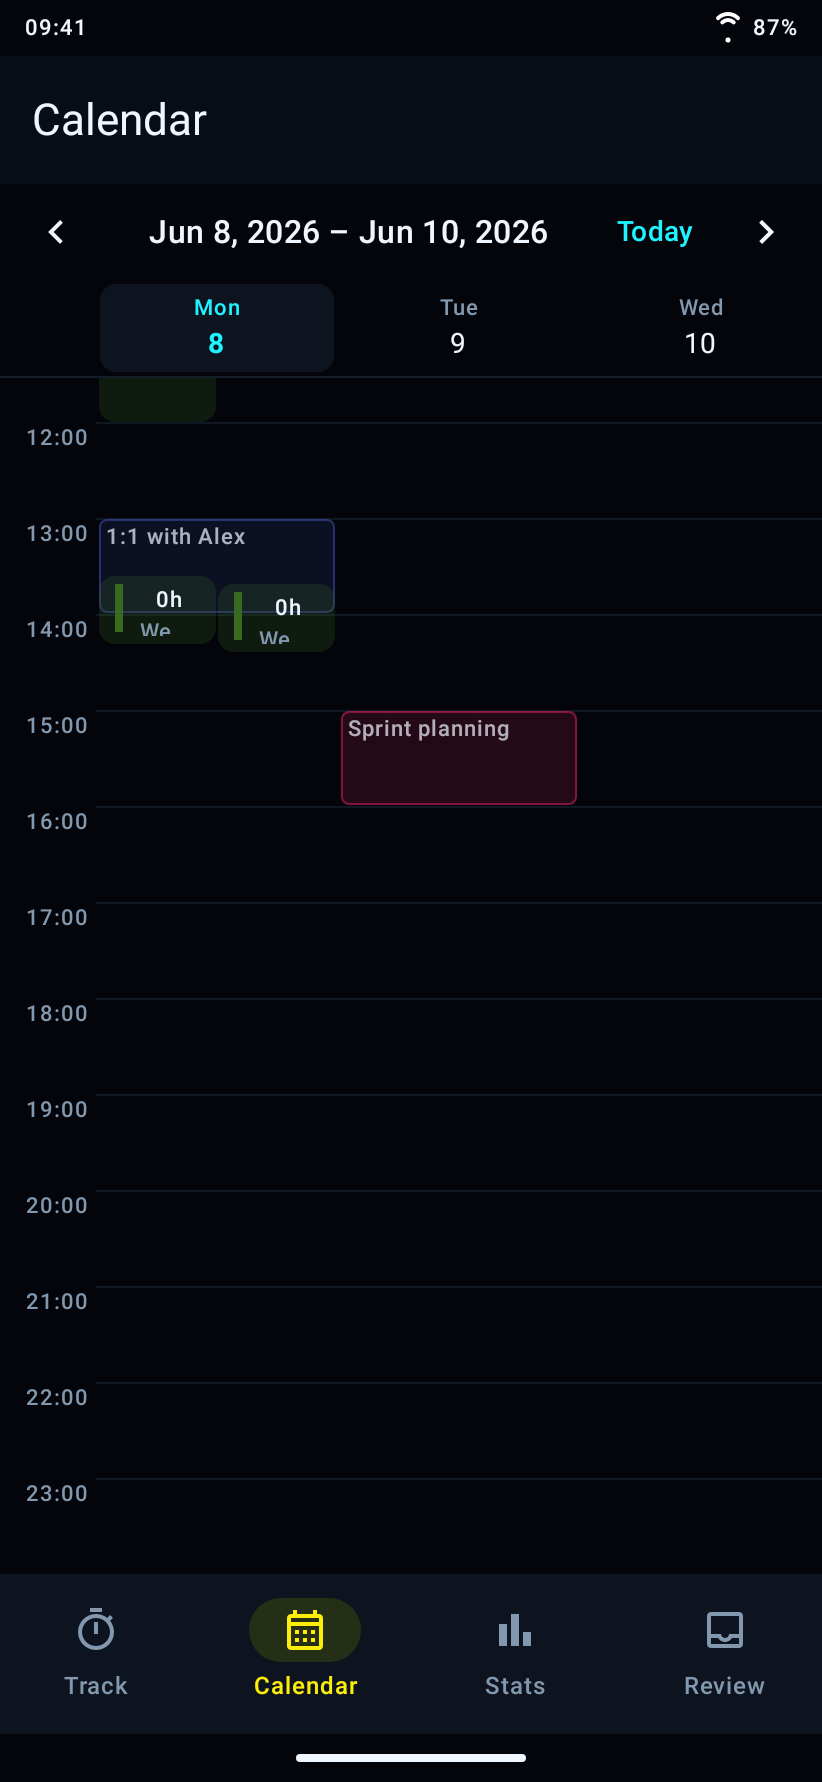
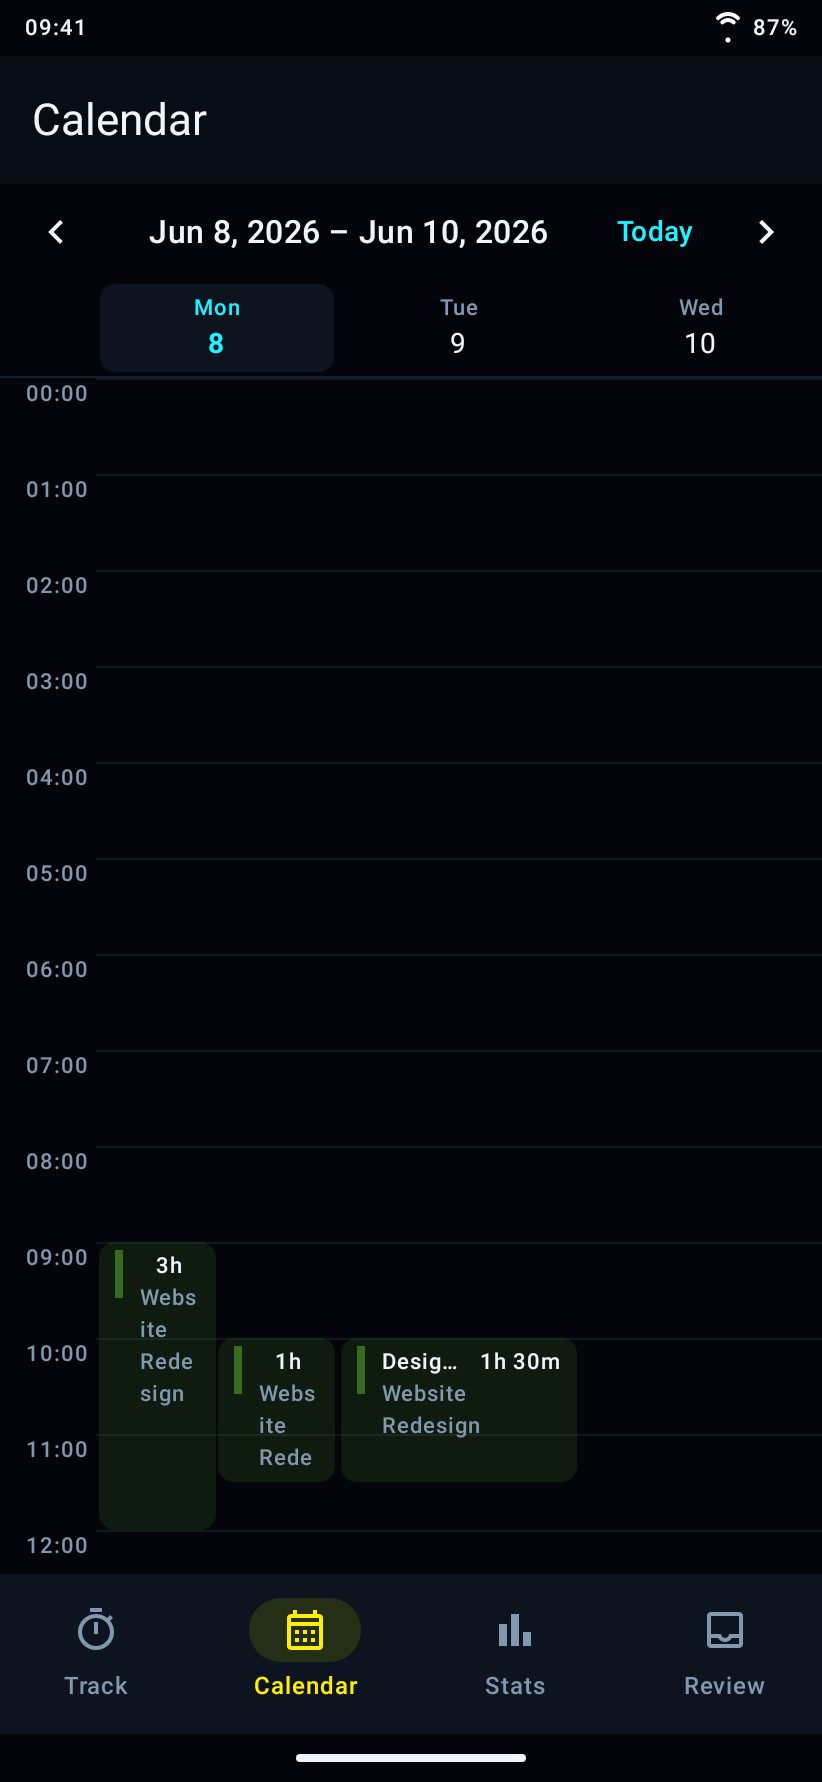
Allow calendar metadata to fill event cards

diff --git a/app/src/main/java/dev/tricked/solidverdant/ui/components/EntryBlock.kt b/app/src/main/java/dev/tricked/solidverdant/ui/components/EntryBlock.kt
@@ -108,8 +108,11 @@ fun EntryBlock(
                     text = subtitle,
                     style = MaterialTheme.typography.labelSmall,
                     color = MaterialTheme.colorScheme.onSurfaceVariant,
-                    maxLines = 2,
-                    overflow = TextOverflow.Ellipsis,
+                    // The calendar supplies a finite card height. Let metadata use every line
+                    // that fits inside that height, then rely on the card clip for short slots.
+                    // A fixed line cap wastes most of tall week-view entries.
+                    maxLines = Int.MAX_VALUE,
+                    overflow = TextOverflow.Clip,
                     modifier = Modifier.fillMaxWidth(),
                 )
             }
